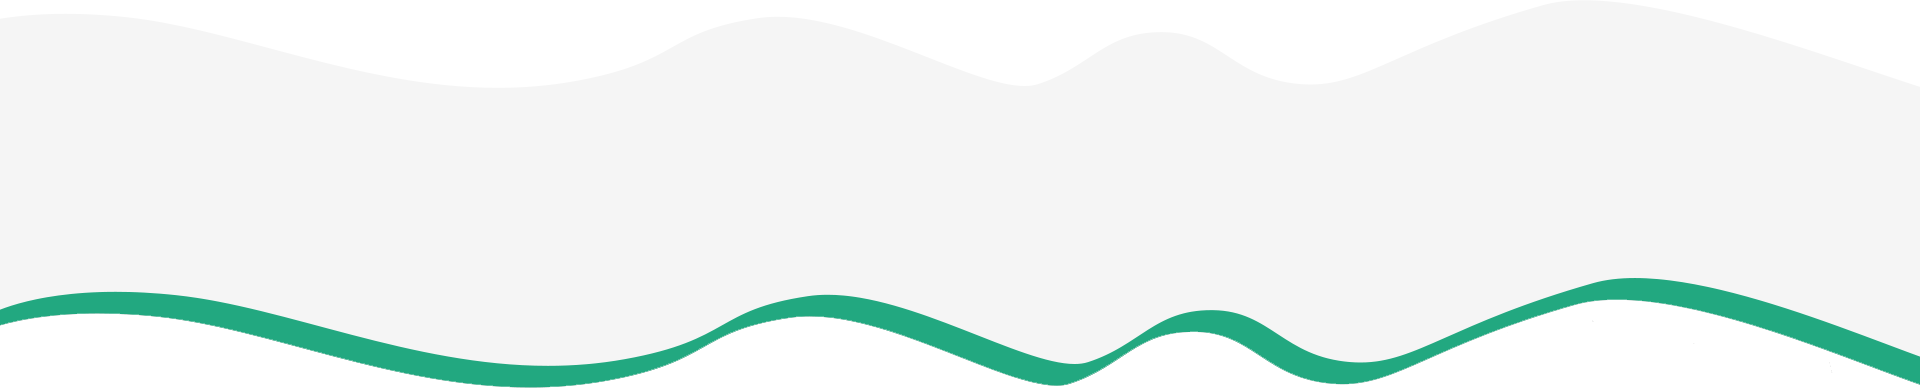
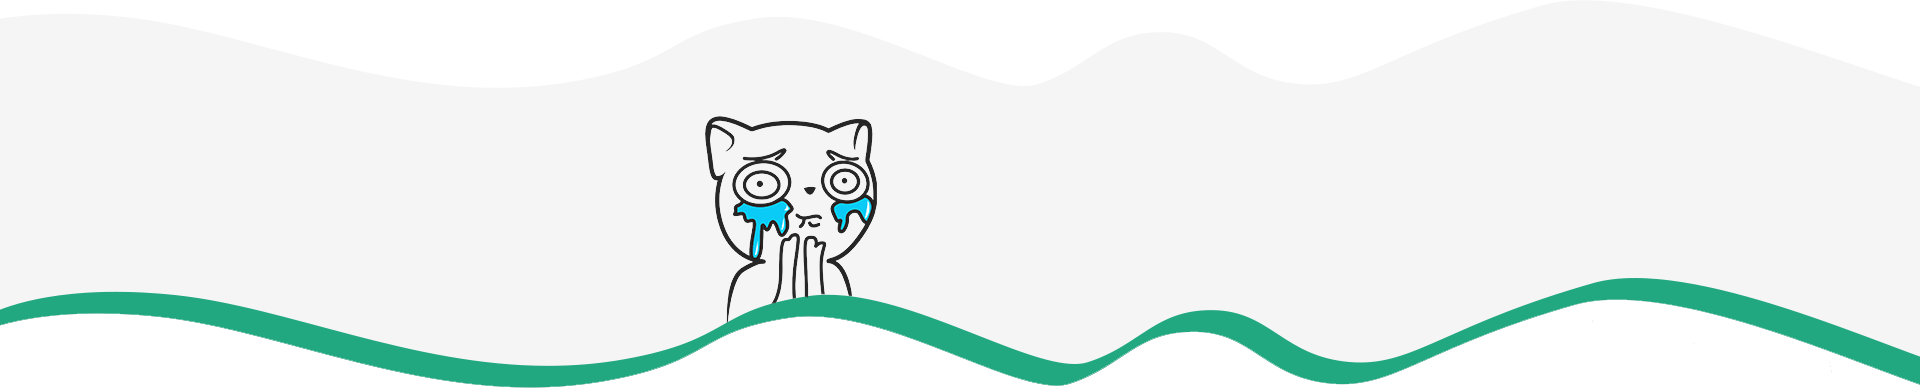
123123123

Changed region(s): [[0.3438, 0.3069, 0.4688, 0.7673]]

diff --git a/src/sass/zdev_4.scss b/src/sass/zdev_4.scss
@@ -34,3 +34,30 @@
     }
     .block-3-humans{max-width: 600px;width: 100%;margin:0 auto;}
 }
+
+
+.block-4{
+    .mbox{position: static;}
+    .block-4-title{text-align: center;padding: 46px 0px;color: #1a2858;max-width: 856px;margin: 0 auto;
+        h2{font-size: 60px;color: #1a2858;font-weight: 300;margin: 0;line-height: 55px;
+            b{font-weight: bold;display: block;}
+        }
+    }
+    .block-4-list{
+        ul{list-style-type: none;margin: 0;padding:0;}
+        li{position: relative;padding-left: 53px;font-size: 20px;color: #212121;
+            &:last-child{
+                p{display: flex;align-items:center;margin-top: 30px;
+                    img{margin-right: 15px;}
+                    i{font-weight: 300;font-style: italic;max-width: 280px;}
+                }
+            }
[1 lines of base64/hex data omitted]
+        }
+    }
+    .block-4-kitty{height: 375px;display: flex;align-items:center;justify-content:center;
+        &:after{background:transparent url('../images/block-4-bottom-bg.png') center center no-repeat;width: 100%;position: absolute;bottom: 0;left: 0;content: '';height: 100%;max-height: 405px;}
+        .kitty{padding-left: 30%;}
+        .kitty-text{position: relative;z-index: 10;color: #1a2858;font-size: 37px;font-style:italic;font-weight: 300;}
+    }
+}

diff --git a/src/sass/zdev_4_adapt.scss b/src/sass/zdev_4_adapt.scss
@@ -43,9 +43,29 @@
         }
     }
 
+    .block-4{
+        .block-4-title{padding: 22px 0px;
+            h2{font-size: 40px;line-height: 35px;}
+        }
+        .block-4-list{
+            li{padding-left: 48px;font-size: 19px}
+        }
+        .block-4-kitty{height: 355px;display: flex;align-items:center;justify-content:center;
+            &:after{max-height: 405px;}
+            .kitty{}
+            .kitty-text{font-size: 30px;}
+        }
+    }
+
 }
 @media screen and (max-width: 666px){
-
+    .block-4{
+        .block-4-kitty{
+            .kitty{padding-left: 50%;}
+            .kitty-text{font-size: 25px;}
+            &:after{background-position: 45% center;}
+        }
+    }
 }
 @media screen and (max-width: 479px){
     .block-3{

diff --git a/src/partials/block-4.html b/src/partials/block-4.html
@@ -27,6 +27,13 @@
                     </li>
                 </ul>
             </div>
+            <div class="block-4-kitty">
+                <div class="kitty">
+                    <div class="kitty-text">
+                        <i>Не хватает лишь тебя…</i>
+                    </div>
+                </div>
+            </div>
         </div>
     </div>
 
